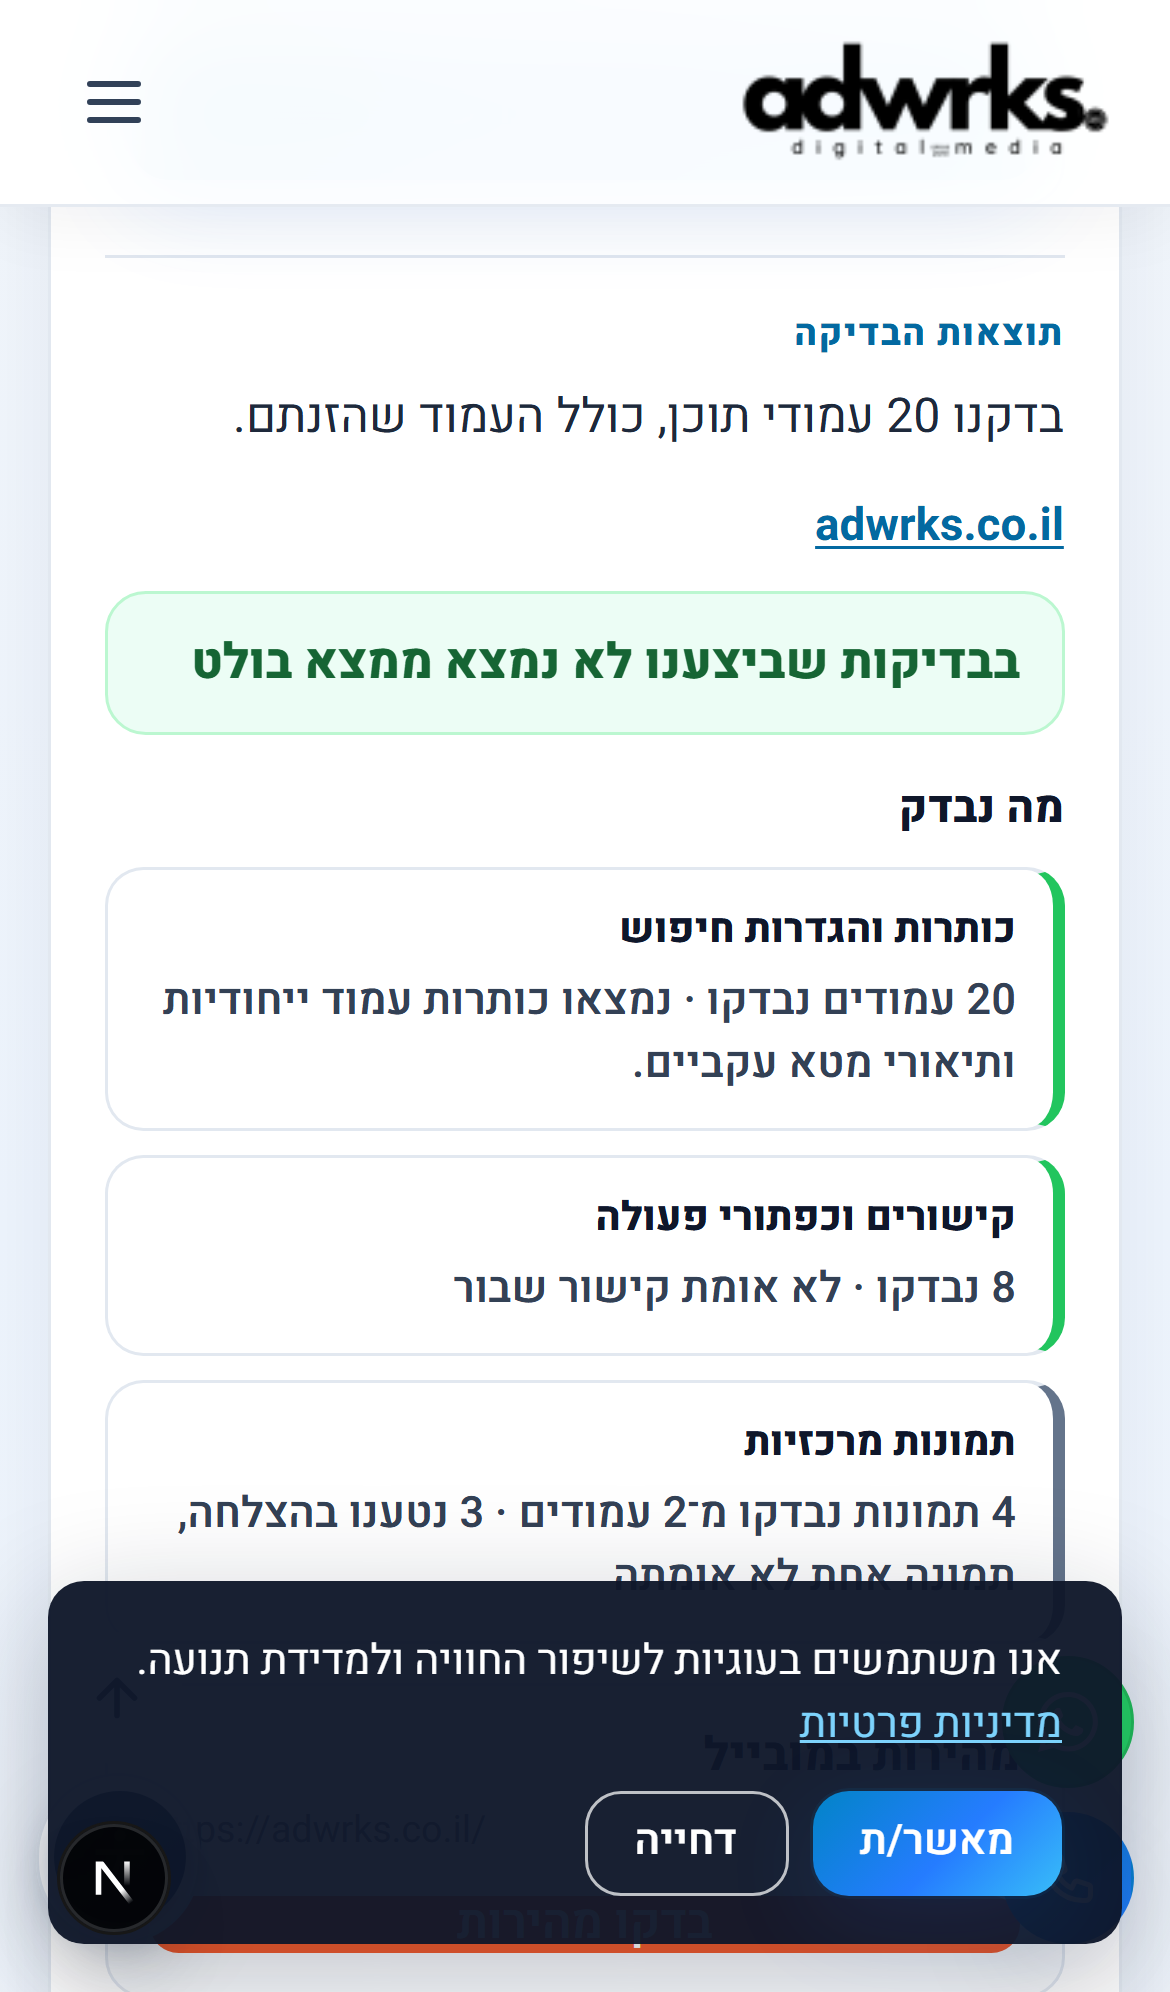
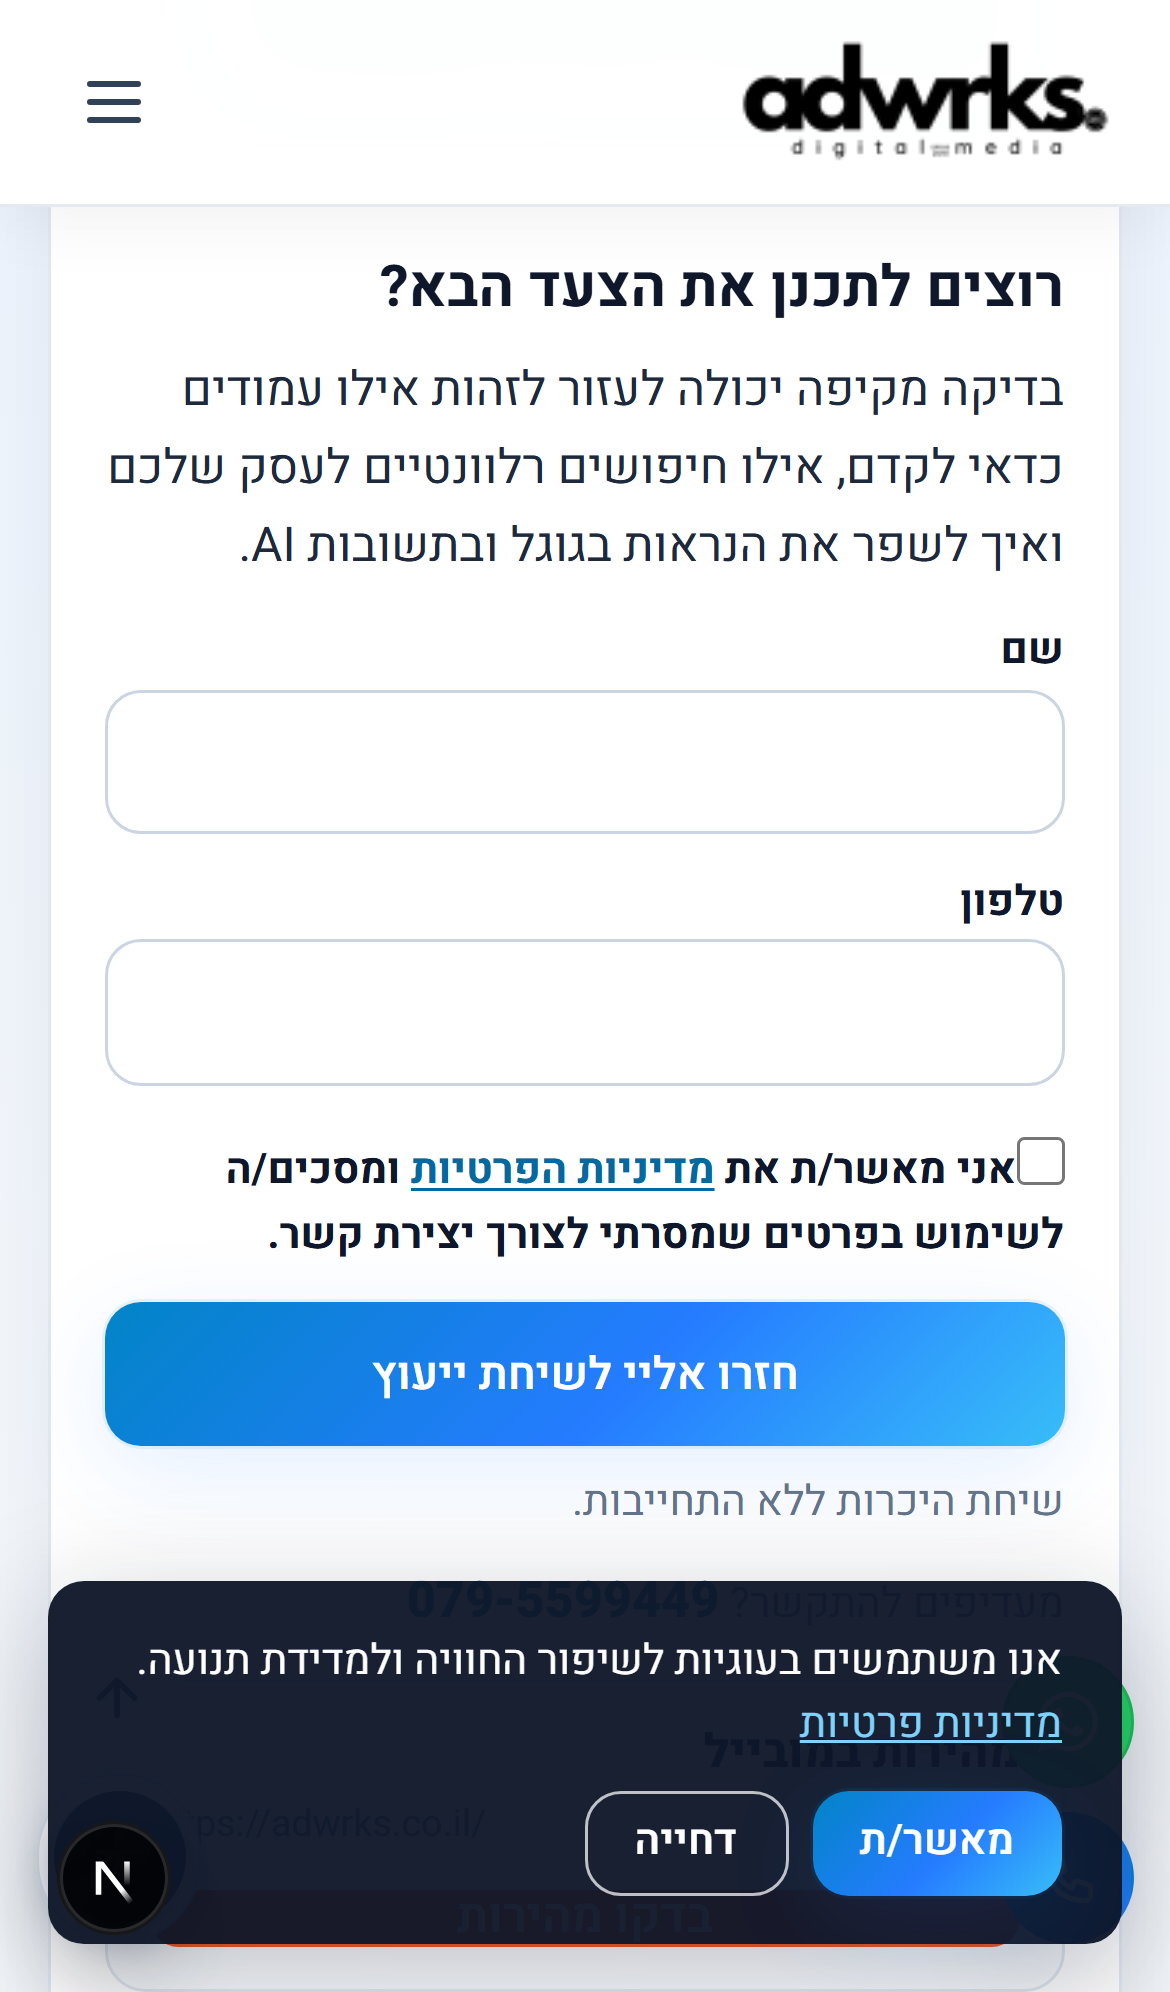
feat(site-check): now-answer block, form before PageSpeed
Results lead with מה כדאי לעשות עכשיו; clear business summary or top finding plus recommended step; topics and extra findings in details; consult form before speed check.

diff --git a/web/src/components/tools/SiteCheckTool.tsx b/web/src/components/tools/SiteCheckTool.tsx
@@ -234,6 +234,8 @@ export function SiteCheckTool({
   const failedPages = report?.pages.filter((page) => page.status === "failed") ?? [];
   const hasFindings = Boolean(report && report.findings.length > 0);
   const isClearSuccess = Boolean(report && report.clearTitle);
+  const primaryFinding = report?.findings[0] ?? null;
+  const moreFindings = report && report.findings.length > 1 ? report.findings.slice(1) : [];
   const formTitle =
     scanIncomplete ? copy.formTitleFailure : hasFindings ? copy.formTitle : isClearSuccess ? copy.formTitleClear : copy.formTitle;
   const formBodyText =
@@ -363,14 +365,18 @@ export function SiteCheckTool({
 
           {report && status === "ready" && (
             <div className="site-check-report-body site-check-fade-in">
-              <p className="site-check-results-kicker">{copy.resultsTitle}</p>
-              {report.partialHeadline && (
-                <p className="site-check-partial-headline" role="status">
-                  {report.partialHeadline}
-                </p>
+              <p className="site-check-results-kicker">{copy.resultsNowTitle}</p>
+              {(report.partialScan || report.partialHeadline) && (
+                <>
+                  {report.partialHeadline && (
+                    <p className="site-check-partial-headline" role="status">
+                      {report.partialHeadline}
+                    </p>
+                  )}
+                  <p className="site-check-scope">{report.scopeLine}</p>
+                </>
               )}
-              <p className="site-check-scope">{report.scopeLine}</p>
-              {report.inputLabel && (
+              {!report.partialScan && !report.partialHeadline && report.inputLabel && (
                 <p className="site-check-domain">
                   <a href={report.inputUrl} dir="ltr" className="site-check-domain-link">
                     {report.inputLabel}
@@ -378,80 +384,28 @@ export function SiteCheckTool({
                 </p>
               )}
 
-              {hasFindings ? (
-                <ol className="site-check-findings site-check-findings--lead">
-                  {report.findings.map((finding) => (
-                    <li key={`${finding.pageUrl}-${finding.observation}`}>
-                      <p className="site-check-finding-kicker">
-                        {finding.pageLabel}
-                      </p>
-                      <h3 className="site-check-finding-headline">{finding.observation}</h3>
-                      <a href={finding.pageUrl} className="site-check-finding-example" dir="ltr">
-                        {finding.pageUrl}
-                      </a>
-                    </li>
-                  ))}
-                </ol>
-              ) : (
-                <p className="site-check-outcome-clear" role="status">
-                  {copy.noFindingsTitle}
-                </p>
-              )}
-
-              <section className="site-check-topics" aria-labelledby="site-check-topics-title">
-                <h3 id="site-check-topics-title" className="site-check-topics-title">
-                  {copy.scopeHeading}
-                </h3>
-                <ul className="site-check-topic-grid">
-                  {report.topicSummaries.map((topic) => (
-                    <li
-                      key={topic.id}
-                      className={`site-check-topic-card site-check-topic-card--${topic.tone}`}
-                    >
-                      <p className="site-check-topic-card-title">{topicTitle(topic.id)}</p>
-                      <p className="site-check-topic-card-detail">{topic.detail}</p>
-                    </li>
-                  ))}
-                </ul>
-              </section>
-
-              <div className="site-check-speed-card">
-                <div className="site-check-speed-card-head">
-                  <h3 className="site-check-speed-card-title">{copy.speedCardTitle}</h3>
-                  <p className="site-check-speed-card-sub" dir="ltr">
-                    {report.homeUrl}
-                  </p>
-                </div>
-                {speedStatus === "idle" && (
-                  <button type="button" className="btn btn-secondary site-check-speed-btn" onClick={onSpeedCheck}>
-                    {copy.speedButton}
-                  </button>
-                )}
-                {speedStatus === "running" && (
-                  <p className="site-check-speed-running" role="status">
-                    {copy.speedRunning}
-                  </p>
-                )}
-                {speedStatus === "error" && speedError && (
-                  <p className="site-check-alert site-check-alert--error" role="alert">
-                    {speedError}
-                  </p>
-                )}
-                {speedStatus === "ready" && (
-                  <div className="site-check-speed-result">
-                    <p className="site-check-speed-score">
-                      <span>{copy.speedScoreLabel}: </span>
-                      <strong>{speedScore ?? "—"}</strong>
+              <div
+                className={`site-check-now-answer${hasFindings ? " site-check-now-answer--findings" : " site-check-now-answer--clear"}`}
+              >
+                {primaryFinding ? (
+                  <>
+                    <p className="site-check-finding-kicker">{primaryFinding.pageLabel}</p>
+                    <h3 className="site-check-finding-headline">{primaryFinding.observation}</h3>
+                    <a href={primaryFinding.pageUrl} className="site-check-finding-example" dir="ltr">
+                      {primaryFinding.pageUrl}
+                    </a>
+                    <p className="site-check-recommended-step">
+                      <span className="site-check-recommended-step-label">{copy.recommendedStepLabel}: </span>
+                      {primaryFinding.why}
                     </p>
-                    {speedPageLabel && (
-                      <p className="site-check-speed-page">
-                        <span>{locale === "en" ? "Page measured: " : "עמוד שנמדד: "}</span>
-                        <span dir="ltr">{speedPageLabel}</span>
-                      </p>
-                    )}
-                    <p className="site-check-speed-tip">{copy.speedTipGeneric}</p>
-                    <p className="site-check-speed-lab">{copy.speedLabNote}</p>
-                  </div>
+                  </>
+                ) : (
+                  <>
+                    <p className="site-check-outcome-clear" role="status">
+                      {copy.noFindingsTitle}
+                    </p>
+                    <p className="site-check-now-summary">{copy.clearBusinessSummary}</p>
+                  </>
                 )}
               </div>
 
@@ -499,8 +453,78 @@ export function SiteCheckTool({
                 </section>
               )}
 
+              <div className="site-check-speed-card site-check-speed-card--after-form">
+                <div className="site-check-speed-card-head">
+                  <h3 className="site-check-speed-card-title">{copy.speedCardTitle}</h3>
+                  <p className="site-check-speed-card-sub" dir="ltr">
+                    {report.homeUrl}
+                  </p>
+                </div>
+                {speedStatus === "idle" && (
+                  <button type="button" className="btn btn-secondary site-check-speed-btn" onClick={onSpeedCheck}>
+                    {copy.speedButton}
+                  </button>
+                )}
+                {speedStatus === "running" && (
+                  <p className="site-check-speed-running" role="status">
+                    {copy.speedRunning}
+                  </p>
+                )}
+                {speedStatus === "error" && speedError && (
+                  <p className="site-check-alert site-check-alert--error" role="alert">
+                    {speedError}
+                  </p>
+                )}
+                {speedStatus === "ready" && (
+                  <div className="site-check-speed-result">
+                    <p className="site-check-speed-score">
+                      <span>{copy.speedScoreLabel}: </span>
+                      <strong>{speedScore ?? "—"}</strong>
+                    </p>
+                    {speedPageLabel && (
+                      <p className="site-check-speed-page">
+                        <span>{locale === "en" ? "Page measured: " : "עמוד שנמדד: "}</span>
+                        <span dir="ltr">{speedPageLabel}</span>
+                      </p>
+                    )}
+                    <p className="site-check-speed-tip">{copy.speedTipGeneric}</p>
+                    <p className="site-check-speed-lab">{copy.speedLabNote}</p>
+                  </div>
+                )}
+              </div>
+
               <details className="site-check-tech-details">
-                <summary>{copy.techDetailsHeading}</summary>
+                <summary>
+                  {moreFindings.length > 0
+                    ? copy.moreFindingsDetailsLabel
+                    : copy.techDetailsHeading}
+                </summary>
+                {!report.partialScan && (
+                  <p className="site-check-scope site-check-scope--detail">{report.scopeLine}</p>
+                )}
+                {report.inputLabel && (
+                  <p className="site-check-domain">
+                    <a href={report.inputUrl} dir="ltr" className="site-check-domain-link">
+                      {report.inputLabel}
+                    </a>
+                  </p>
+                )}
+                <section className="site-check-topics" aria-labelledby="site-check-topics-title">
+                  <h3 id="site-check-topics-title" className="site-check-topics-title">
+                    {copy.scopeHeading}
+                  </h3>
+                  <ul className="site-check-topic-grid">
+                    {report.topicSummaries.map((topic) => (
+                      <li
+                        key={topic.id}
+                        className={`site-check-topic-card site-check-topic-card--${topic.tone}`}
+                      >
+                        <p className="site-check-topic-card-title">{topicTitle(topic.id)}</p>
+                        <p className="site-check-topic-card-detail">{topic.detail}</p>
+                      </li>
+                    ))}
+                  </ul>
+                </section>
                 {report.checksLine && <p className="site-check-checks">{report.checksLine}</p>}
                 {report.partialNote && <p className="site-check-partial">{report.partialNote}</p>}
                 <p className="site-check-limit">{report.limitNote}</p>
@@ -513,6 +537,22 @@ export function SiteCheckTool({
                       ))}
                     </ul>
                   </>
+                )}
+                {moreFindings.length > 0 && (
+                  <ol className="site-check-findings site-check-findings--more">
+                    {moreFindings.map((finding) => (
+                      <li key={`more-${finding.pageUrl}-${finding.observation}`}>
+                        <p className="site-check-finding-kicker">{finding.pageLabel}</p>
+                        <h4 className="site-check-finding-headline">{finding.observation}</h4>
+                        <a href={finding.pageUrl} className="site-check-finding-example" dir="ltr">
+                          {finding.pageUrl}
+                        </a>
+                        <p className="site-check-finding-impact">
+                          {copy.impactLabel}: {finding.why}
+                        </p>
+                      </li>
+                    ))}
+                  </ol>
                 )}
                 {hasFindings && (
                   <ul className="site-check-finding-impacts">

diff --git a/web/src/lib/pages/site-check/copy.ts b/web/src/lib/pages/site-check/copy.ts
@@ -23,6 +23,12 @@ export type SiteCheckCopy = {
   demoLabel: string;
   demoLine: string;
   resultsTitle: string;
+  /** Heading for the post-scan action block. */
+  resultsNowTitle: string;
+  /** Plain-language summary when no priority finding (clear scan). */
+  clearBusinessSummary: string;
+  recommendedStepLabel: string;
+  moreFindingsDetailsLabel: string;
   scopeHeading: string;
   topicSeoTitle: string;
   topicLinksTitle: string;
@@ -95,6 +101,11 @@ const HE: SiteCheckCopy = {
   demoLabel: "דוגמה לתוצאה",
   demoLine: "עמוד יצירת קשר · מספר הטלפון באתר אינו לחיץ",
   resultsTitle: "תוצאות הבדיקה",
+  resultsNowTitle: "מה כדאי לעשות עכשיו?",
+  clearBusinessSummary:
+    "בבדיקה הראשונית האתר נראה מסודר: לא מצאנו בעיה בולטת שמונעת ממבקר להבין מה אתם מציעים או ליצור איתכם קשר. אפשר להמשיך לקדם את האתר בלי תיקון דחוף.",
+  recommendedStepLabel: "הצעד המומלץ",
+  moreFindingsDetailsLabel: "ממצאים נוספים, מדדים ופרטים",
   scopeHeading: "מה נבדק",
   topicSeoTitle: "כותרות והגדרות חיפוש",
   topicLinksTitle: "קישורים וכפתורי פעולה",
@@ -206,6 +217,11 @@ const EN: SiteCheckCopy = {
   demoLabel: "Sample result",
   demoLine: "Contact page · The phone number on the site isn't tappable",
   resultsTitle: "Check results",
+  resultsNowTitle: "What should you do now?",
+  clearBusinessSummary:
+    "In this first check the site looks orderly: we did not find a standout issue that would stop someone from understanding your offer or getting in touch. You can keep growing visibility without an urgent fix.",
+  recommendedStepLabel: "Recommended next step",
+  moreFindingsDetailsLabel: "More findings, metrics, and details",
   scopeHeading: "What we checked",
   topicSeoTitle: "Titles and search snippets",
   topicLinksTitle: "Links and action buttons",

diff --git a/web/src/app/globals.css b/web/src/app/globals.css
@@ -14793,16 +14793,59 @@ body.contextual-popup-open {
   text-underline-offset: 0.15em;
 }
 
-.site-check-outcome-clear {
+.site-check-now-answer {
+  border-radius: 0.9rem;
+  margin: 0 0 0.85rem;
+  padding: 0.75rem 0.85rem;
+}
+
+.site-check-now-answer--clear {
   background: #ecfdf5;
   border: 1px solid #bbf7d0;
-  border-radius: 0.85rem;
+}
+
+.site-check-now-answer--findings {
+  background: #fff7ed;
+  border: 1px solid #fed7aa;
+}
+
+.site-check-outcome-clear {
   color: #166534;
   font-size: 1.02rem;
   font-weight: 800;
   line-height: 1.45;
-  margin: 0 0 0.85rem;
-  padding: 0.7rem 0.85rem;
+  margin: 0 0 0.5rem;
+}
+
+.site-check-now-summary {
+  color: #14532d;
+  font-size: 0.96rem;
+  font-weight: 600;
+  line-height: 1.6;
+  margin: 0;
+}
+
+.site-check-recommended-step {
+  color: #7c2d12;
+  font-size: 0.92rem;
+  line-height: 1.55;
+  margin: 0.55rem 0 0;
+}
+
+.site-check-recommended-step-label {
+  font-weight: 800;
+}
+
+.site-check-speed-card--after-form {
+  margin-top: 0.65rem;
+}
+
+.site-check-scope--detail {
+  margin-top: 0.35rem;
+}
+
+.site-check-findings--more {
+  margin: 0.5rem 0 0;
 }
 
 .site-check-topics {
